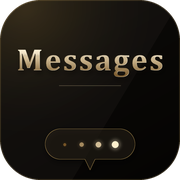
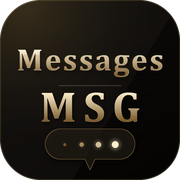
Deploy: добавить «MSG» под полосой на иконке

Changed region(s): [[0.2222, 0.5, 0.4167, 0.6944], [0.6111, 0.5, 0.7778, 0.6944], [0.4722, 0.5, 0.5833, 0.6944]]

diff --git a/index.html b/index.html
@@ -7,7 +7,7 @@
   <meta name="apple-mobile-web-app-status-bar-style" content="black-translucent" />
   <meta name="apple-mobile-web-app-title" content="Рассылка" />
   <meta name="theme-color" content="#0a0806" />
-  <link rel="apple-touch-icon" href="icons/icon-180.png?v=1788612688" />
+  <link rel="apple-touch-icon" href="icons/icon-180.png?v=1788613432" />
   <link rel="manifest" href="manifest.json?v=1788612688" />
   <link rel="preconnect" href="https://fonts.gstatic.com" crossorigin>
   <link rel="stylesheet" href="https://fonts.googleapis.com/css2?family=Space+Grotesk:wght@500;600;700&family=JetBrains+Mono:wght@400;500;600&display=swap">
